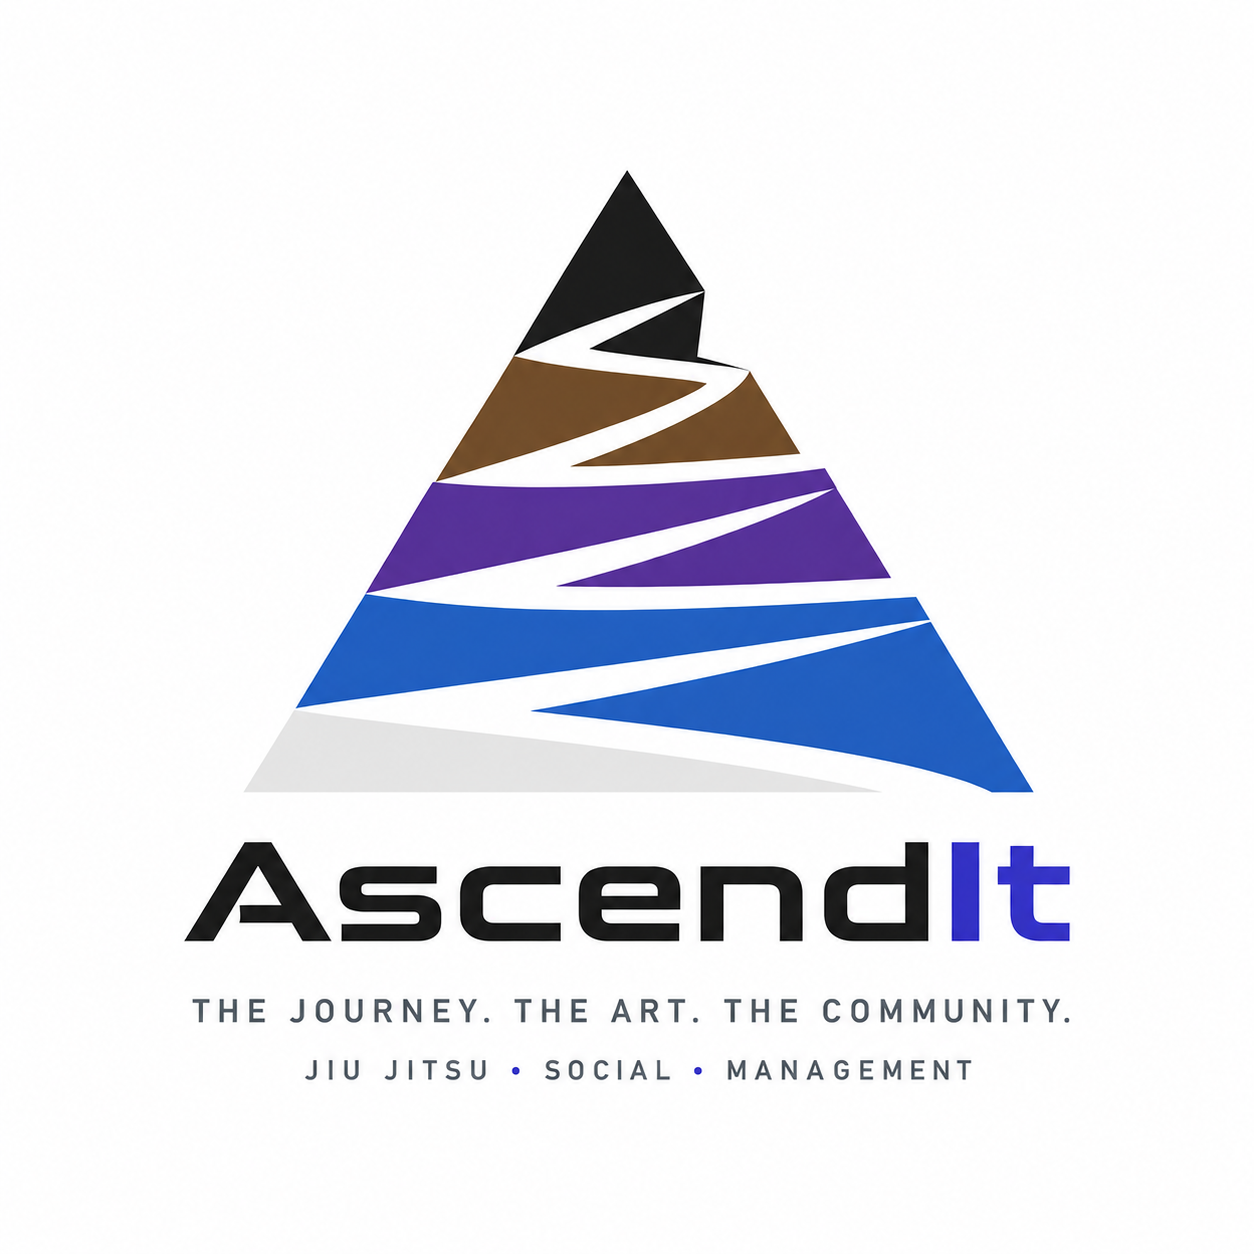
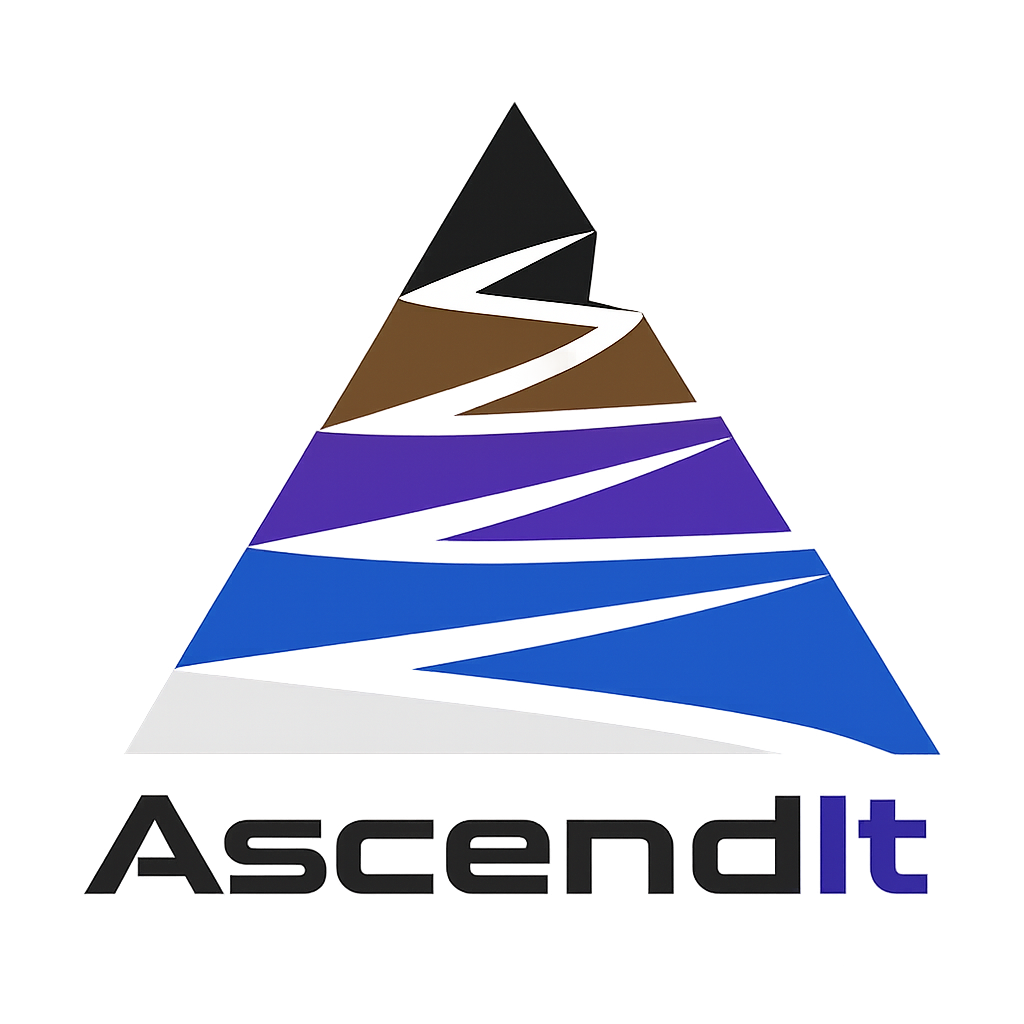
prior to launch day

Changed region(s): [[0.0625, 0.0938, 0.9375, 0.875]]

diff --git a/app/onboarding/OnboardingWizard.tsx b/app/onboarding/OnboardingWizard.tsx
@@ -66,7 +66,6 @@ export function OnboardingWizard({ userId, userName, userBelt, userStripes, redi
 
   // Step 1
   const [name, setName] = useState(userName || '')
-  const [avatarUrl, setAvatarUrl] = useState('')
   const [belt, setBelt] = useState<Belt>(userBelt || 'white')
   const [stripes, setStripes] = useState(userStripes || 0)
 
@@ -109,7 +108,7 @@ export function OnboardingWizard({ userId, userName, userBelt, userStripes, redi
   }
 
   async function saveStep1() {
-    await patch({ name: name || undefined, avatarUrl: avatarUrl || undefined, belt, stripes })
+    await patch({ name: name || undefined, belt, stripes })
   }
 
   async function saveStep2() {
@@ -188,17 +187,6 @@ export function OnboardingWizard({ userId, userName, userBelt, userStripes, redi
                 onChange={e => setName(e.target.value)}
                 className={inputCls}
                 placeholder="Your name"
-              />
-            </div>
-
-            <div className="flex flex-col gap-1">
-              <label className={labelCls}>Avatar URL <span className="normal-case font-normal text-ash">(optional)</span></label>
-              <input
-                type="url"
-                value={avatarUrl}
-                onChange={e => setAvatarUrl(e.target.value)}
-                className={inputCls}
-                placeholder="https://..."
               />
             </div>
 
@@ -310,7 +298,7 @@ export function OnboardingWizard({ userId, userName, userBelt, userStripes, redi
         {step === 2 && showGymForumPrompt && selectedGym && (
           <div className="flex flex-col gap-5">
             <div>
-              <p className="text-xs font-bold uppercase tracking-widest text-steel mb-1">Step 2 of {TOTAL_STEPS}</p>
+              <p className="text-xs font-bold uppercase tracking-widest text-steel mb-1">Step 2 · Gym Forum</p>
               <h2 className="font-display text-xl text-ink mb-1">Connect with your training partners</h2>
             </div>
             {justCreatedGym && (
@@ -371,7 +359,7 @@ export function OnboardingWizard({ userId, userName, userBelt, userStripes, redi
             <div className="flex justify-between">
               <button onClick={() => setStep(s => s - 1)} className={secondaryBtn}>← Back</button>
               <div className="flex gap-3">
-                <button onClick={handleSkip} className={secondaryBtn}>Skip</button>
+                <button onClick={handleSkip} className={secondaryBtn}>Skip for now</button>
                 <button
                   onClick={() => handleNext(saveStep3)}
                   disabled={saving}
@@ -415,7 +403,7 @@ export function OnboardingWizard({ userId, userName, userBelt, userStripes, redi
             <div className="flex justify-between">
               <button onClick={() => setStep(s => s - 1)} className={secondaryBtn}>← Back</button>
               <div className="flex gap-3">
-                <button onClick={handleSkip} className={secondaryBtn}>Skip</button>
+                <button onClick={handleSkip} className={secondaryBtn}>Skip for now</button>
                 <button
                   onClick={() => handleNext(saveStep4)}
                   disabled={saving}

diff --git a/app/dashboard/page.tsx b/app/dashboard/page.tsx
@@ -4,6 +4,7 @@ import { redirect } from 'next/navigation'
 import Link from 'next/link'
 import prisma from '@/lib/database'
 import { getMondayOfWeek } from '@/lib/generateSessions'
+import { getEffectiveFeatures } from '@/lib/features'
 import { DeleteAccountButton } from '@/app/components/DeleteAccountButton'
 import { CheckinButton } from '@/app/components/CheckinButton'
 
@@ -12,6 +13,8 @@ const DAY_ABBR = ['Sun', 'Mon', 'Tue', 'Wed', 'Thu', 'Fri', 'Sat']
 export default async function DashboardPage() {
   const session = await getServerSession(authOptions)
   if (!session?.user?.id) redirect('/login')
+
+  const features = await getEffectiveFeatures(session)
 
   const monday = getMondayOfWeek(new Date())
   const sunday = new Date(monday)
@@ -194,6 +197,7 @@ export default async function DashboardPage() {
       </div>
 
       {/* Recent journal entries */}
+      {features.journal && (
       <div className="mb-8">
         <div className="flex items-center justify-between mb-3">
           <p className="text-xs font-bold uppercase tracking-widest text-steel">Training Journal</p>
@@ -227,6 +231,7 @@ export default async function DashboardPage() {
           </div>
         )}
       </div>
+      )}
 
       {/* Recent forum activity */}
       {recentPosts.length > 0 && (
@@ -266,10 +271,12 @@ export default async function DashboardPage() {
           <p className="text-xs font-bold uppercase tracking-widest text-steel">Forums</p>
           <p className="text-slate text-sm">Class discussions and announcements</p>
         </Link>
-        <Link href="/lessons" className="border border-smoke bg-paper hover:border-steel transition-colors p-5 flex flex-col gap-2">
-          <p className="text-xs font-bold uppercase tracking-widest text-steel">Private Lessons</p>
-          <p className="text-slate text-sm">Request or view your lesson history</p>
-        </Link>
+        {features.privateLessons && (
+          <Link href="/lessons" className="border border-smoke bg-paper hover:border-steel transition-colors p-5 flex flex-col gap-2">
+            <p className="text-xs font-bold uppercase tracking-widest text-steel">Private Lessons</p>
+            <p className="text-slate text-sm">Request or view your lesson history</p>
+          </Link>
+        )}
         {(session.user.roles?.includes('instructor') || session.user.roles?.includes('admin')) && (
           <Link href="/instructor" className="border border-smoke bg-paper hover:border-steel transition-colors p-5 flex flex-col gap-2">
             <p className="text-xs font-bold uppercase tracking-widest text-steel">Instructor</p>

diff --git a/app/tour/admin/page.tsx b/app/tour/admin/page.tsx
@@ -69,9 +69,9 @@ export default function AdminTourPage() {
           <p className="text-ash text-lg max-w-xl leading-relaxed">
             AscendIt gives you full visibility into your students, schedule, and community — without the spreadsheets.
           </p>
-          <a href="mailto:[email redacted]" className="px-6 py-3 bg-brand-red text-paper font-bold text-sm tracking-wide hover:bg-brand-red-dark transition-colors">
-            Request a Demo
-          </a>
+          <Link href="/gyms/register" className="px-6 py-3 bg-brand-red text-paper font-bold text-sm tracking-wide hover:bg-brand-red-dark transition-colors">
+            Register Your Gym
+          </Link>
         </div>
       </div>
 
@@ -191,14 +191,13 @@ export default function AdminTourPage() {
             AscendIt gives your instructors the tools and your students the experience they expect from a world-class academy.
           </p>
           <div className="flex gap-3 flex-wrap justify-center">
-            <a href="mailto:[email redacted]" className="px-6 py-3 bg-brand-red text-paper font-bold text-sm tracking-wide hover:bg-brand-red-dark transition-colors">
-              Request a Demo
-            </a>
+            <Link href="/gyms/register" className="px-6 py-3 bg-brand-red text-paper font-bold text-sm tracking-wide hover:bg-brand-red-dark transition-colors">
+              Register Your Gym
+            </Link>
             <Link href="/tour" className="px-6 py-3 border border-steel text-ash text-sm font-medium hover:border-paper hover:text-paper transition-colors">
               See the Student Tour →
             </Link>
           </div>
-          <p className="text-paper/40 text-xs mt-2">Demo form will be wired to email API in a future update.</p>
         </div>
       </section>
     </div>

diff --git a/app/admin/users/[id]/page.tsx b/app/admin/users/[id]/page.tsx
@@ -72,6 +72,11 @@ export default async function AdminUserDetailPage({ params }: { params: Promise<
       </div>
 
       <div className="flex flex-col gap-6">
+        <div className="flex items-center gap-3">
+          <p className="text-xs font-bold uppercase tracking-widest text-ash whitespace-nowrap">Admin Controls</p>
+          <div className="h-px flex-1 bg-smoke" />
+        </div>
+
         {/* Role Management */}
         <RoleManager userId={user.id} currentRoles={user.roles as string[]} />
 
@@ -89,6 +94,11 @@ export default async function AdminUserDetailPage({ params }: { params: Promise<
           initialVerified={user.beltVerified}
           verifierName={verifier?.name ?? null}
         />
+
+        <div className="flex items-center gap-3 mt-2">
+          <p className="text-xs font-bold uppercase tracking-widest text-ash whitespace-nowrap">Profile &amp; History</p>
+          <div className="h-px flex-1 bg-smoke" />
+        </div>
 
         {/* Contact */}
         <div className="border border-smoke bg-paper p-6">

diff --git a/app/page.tsx b/app/page.tsx
@@ -21,12 +21,12 @@ export default function HomePage() {
           />
 
           <p className="font-display text-xl text-ink max-w-md text-center leading-snug">
-            Connecting people with the shared pursuit of one day being good at jiu jitsu.
+            Connecting people with the shared pursuit of one day being good at Jiu-Jitsu.
           </p>
 
           <p className="text-slate text-sm max-w-md leading-relaxed text-center">
-            Schedule classes, declare your attendance, connect with training partners,
-            and track your progress from white belt to black.
+            Message with your team, journal your goals &amp; progress, share photos,
+            find open mats and more…
           </p>
 
           <div className="flex gap-3 flex-wrap justify-center">

diff --git a/TODO.md b/TODO.md
@@ -284,7 +284,7 @@ Schema pushed: `ClassGroup` enum (`grappling | striking | kids | competition | s
 
 These items are code-complete but require manual steps to fully activate:
 
-- **Vercel env vars (Phase 19):** Add `RESEND_API_KEY` and `EMAIL_FROM=[email redacted]` to Vercel dashboard → Project → Settings → Environment Variables (Production + Preview). Without this, password reset emails won't send in production.
+- **Vercel env vars (Phase 19):** ✅ `RESEND_API_KEY` added to Vercel **Production + Preview** (2026-06-01, new rotated key; also updated in `.env.local`). ⚠️ Still need to add **`EMAIL_FROM=[email redacted]`** to Vercel (Production + Preview) — not yet pushed. Also: old Resend key `re_UaUtDYNk…` is still active on Resend's side — revoke it in the Resend dashboard if this was a security rotation.
 - **Group forum seeding (Phase 17):** One-time setup — while logged in as admin, POST to `/api/admin/init-group-forums` (e.g. from browser devtools or a REST client) to create the 5 group forums in the database.
 - **Belt forum seeding (Phase 27):** One-time setup — while logged in as site_admin, POST to `/api/site-admin/belt-forums/init` to create the 5 belt forums. Safe to run multiple times (idempotent).
 - **Production email domain:** Sandbox sender only delivers to your verified Resend email. To send to any user, verify a domain at resend.com and update `EMAIL_FROM` to `[email redacted]`.
@@ -503,7 +503,7 @@ Two separate tours: one for prospective students (`/tour`), one for prospective 
 ### [ ] 30.12 — Gym revenue dashboard (`/admin/payments`) + platform revenue dashboard (`/site-admin/payments`, folds in 29.6) (§15)
 ### [ ] 30.13 — Gym onboarding copy: explain paid-tier unlocks (scheduling, store, tournaments, paid private lessons, money collection) vs free-tier retains (profile, gym forum + moderation, communication under banner); state student data is always preserved + fees negotiable / gym bears Stripe fees (guide §21.2). Files: `/onboarding/admin`, `/gyms/register`.
 
-**Decisions confirmed (guide §21):** D1 participating-only collects · D2 payee bears Stripe fee + platform fee on top · D3 defaults 5%/0%/0% · D4 rates negotiable per-gym AND per-vendor from site-admin dashboard (override UI in core scope) · D5 USD/no-tax · D6 keep pay-at-pickup fallback · D7 hybrid checkout (single-payee destination charge, multi-payee separate charges + automated transfers) · D8 platform sub = gym's one-student monthly fee, negotiable, 14-day trial · D9 site_admin comped flag · D10 soft lapse per §21.1 capability matrix · D11 gym-defined membership plans. **Pending:** D12 grace · D13 vendor scope · D14 photo prints · D15 refunds · D16 payouts · D17 payment methods.
+**Decisions confirmed (guide §21):** D1 participating-only collects · D2 payee bears Stripe fee + platform fee on top · D3 defaults 5%/0%/0% · D4 rates negotiable per-gym AND per-vendor from site-admin dashboard (override UI in core scope) · D5 USD/no-tax · D6 keep pay-at-pickup fallback · D7 hybrid checkout (single-payee destination charge, multi-payee separate charges + automated transfers) · D8 platform sub = gym's one-student monthly fee, negotiable, 14-day trial · D9 site_admin comped flag · D10 soft lapse per §21.1 capability matrix · D11 gym-defined membership plans · D12 7-day membership grace · D13 vendor selling deferred to 30D · D14 photo-print sales deferred (30D) · D15 payee refunds own sales ≤30d + site_admin always, fee pro-rata · D16 Stripe default auto payouts · D17 cards + wallets. **All 17 set.** Only gate to start coding: manual Stripe test-credential setup (30.0a–g) + your go-ahead.
 
 **⚠️ Product note (guide §21.1):** AscendIt is a social network first; gym membership is optional. Free/lapsed gyms lose money-collection + **scheduling** + store + tournaments + paid lessons, but keep profile, gym-forum moderation, and communication under their banner. **Students always keep their own data.** Gating scheduling behind the paid tier is a product change to land with 30B (currently scheduling is universal).
 
@@ -586,29 +586,23 @@ When returning from "Add my gym" (`initialGymId`/`initialGymName` present), the 
 ### [x] 36.2 — Brand name resolved (not a rename) — DONE
 User clarified: **AscendIt** is the app name (already consistent in the UI — Header, layout title, onboarding, gym-register all say AscendIt). **Ascend** is intentionally repurposed as a demo gym (see Phase 37). No UI rename needed.
 
-### [ ] 36.3 — Remove Avatar URL from onboarding step 1 (MED)
-Asking a brand-new user to paste a hosted image URL is friction with no uploader. Keep avatar editing only in `/profile/edit`. File: `OnboardingWizard.tsx`.
+### [x] 36.3 — Remove Avatar URL from onboarding step 1 — DONE (removed field + state; avatar editing stays in `/profile/edit`)
 
-### [ ] 36.4 — Standardize skip / secondary-button copy (MED)
-Onboarding uses "I train independently" / "Skip" / "Skip for now" / "Skip Reflection" across steps 2–5. Standardize the skip affordance; audit site-wide. File: `OnboardingWizard.tsx`.
+### [x] 36.4 — Standardize skip / secondary-button copy — DONE (steps 3/4/5 now all "Skip for now"; step 2's "I train independently" kept — distinct path choice, not a skip)
 
-### [ ] 36.5 — Resolve dead-end placeholders shown to real users (MED)
-Admin-tour final CTA is a "Phase 19 email" placeholder; `/vendor` is a stub. Either wire them up or clearly label "coming soon" / hide the nav entry. Files: `app/tour/admin/page.tsx`, `app/vendor/*`, `Header.tsx`.
+### [x] 36.5 — Resolve dead-end placeholders — DONE (admin-tour CTAs now link to `/gyms/register` instead of a guessed `mailto`; "wired later" disclaimer removed. `/vendor` stub already labeled "Coming soon" — left as-is)
 
-### [ ] 36.6 — Audit first-run empty states (MED)
-Confirm dashboard panels, schedule (nothing committed), forum, journal, gallery render inviting empty states for a day-1 user, not blank boxes. Files: respective pages.
+### [x] 36.6 — Audit first-run empty states — DONE
+Audited dashboard, journal, gallery, forum, schedule: empty states already inviting (CTAs/links present; schedule per-day "—" is an appropriate column placeholder). Also fixed a Phase 37 continuity gap found during the audit: dashboard now hides the **Training Journal** section and **Private Lessons** card when those features are off for the gym (was showing dead links that bounced to /dashboard). File: `app/dashboard/page.tsx`.
 
-### [ ] 36.7 — Lighten the onboarding reflection step (LOW)
-Three open-ended prompts at first run is heavy. Collapse to one optional prompt; full reflection stays at `/reflection/edit`. File: `OnboardingWizard.tsx`.
+### [ ] 36.7 — Lighten the onboarding reflection step (LOW) — ⏸️ NEEDS YOUR CALL
+Three open-ended prompts at first run is heavy. Collapse to one optional prompt; full reflection stays at `/reflection/edit`. File: `OnboardingWizard.tsx`. **Parked (not auto-done):** this removes data we currently collect at signup (why-started / challenges / goals feed the journal/profile). Confirm you want to trim it, and which single prompt to keep, before I cut the other two.
 
-### [ ] 36.8 — Group/section the admin user-detail screen (LOW)
-Roles + belt verify + class access + email actions are stacked as one wall. Add sections/accordion. File: `app/admin/users/[id]/page.tsx`.
+### [x] 36.8 — Group/section the admin user-detail screen — DONE (split the flat stack into two labeled groups with divider headers: "Admin Controls" = role/class-access/email/belt; "Profile & History" = contact/rank/attendance/notes)
 
-### [ ] 36.9 — Fix "Step 2 of 6" double-label on the gym-forum sub-step (LOW)
-The forum sub-step reprints "Step 2" so the user sees it twice. Use a sub-label or rely on the dots. File: `OnboardingWizard.tsx`.
+### [x] 36.9 — Fix "Step 2 of 6" double-label on the gym-forum sub-step — DONE (sub-step now reads "Step 2 · Gym Forum")
 
-### [ ] 36.10 — Verify privileged-area nav consistency (LOW)
-Admin/instructor use card hubs; site-admin uses a sidebar; student uses header icons. Confirm this is deliberate and document the intended pattern. Files: `admin/`, `instructor/`, `site-admin/` layouts.
+### [x] 36.10 — Verify privileged-area nav consistency — DONE (verified deliberate; documented in `guides/phase35-ux-audit.md` CONT-7: global header for all; card hubs for shallow admin/instructor areas; sidebar for the deeper site-admin console — keep them distinct)
 
 **Out of scope (tracked separately as feature-audit gaps, not UX bloat):** hidden-group forum notification muting, custom media-access edit UI, `allowMediaTagging` pre-submit check, per-type in-app notification preference threading.
 
@@ -645,6 +639,16 @@ Schema pushed: new `GymFeatures` model (`gymId @unique`, 6 booleans, cascade). K
 ---
 
 ## SESSION LOG
+
+**2026-06-01 — Phase 35/36 UX, Phase 37 gym toggles, Phase 30 payments plan, Resend key, copy**
+- **36.1** — fixed onboarding gym return-from-register (no step-1 restart / re-prompt; "you're now a member" banner). Finding: `POST /api/gyms` already auto-joins creator.
+- **Phase 35/36** — wrote `guides/phase35-ux-audit.md`, triaged into Phase 36. Executed 36.3 (drop avatar URL), 36.4 (standardize "Skip for now"), 36.5 (admin-tour CTAs → `/gyms/register`), 36.6 (empty states OK + dashboard now hides Journal/Lessons when feature off), 36.8 (admin user-detail grouped), 36.9 (sub-step label), 36.10 (nav pattern documented). **36.7 parked** (needs your call — trims signup reflection data).
+- **Phase 37** — per-gym feature toggles: new `GymFeatures` model (+ client-safe `lib/gymFeatureFlags.ts`), `lib/features.ts` `getEffectiveFeatures` (platform AND gym, admin bypass), nav + page hiding, API enforcement on 6 routes, `/admin/settings` "Gym Features" UI, `prisma db push` done, `scripts/setup-ascend-gym.ts` created the **Ascend** demo gym + moved 3 instructors. Confirmed Phase 33 toggles were API-only; added UI hiding. Verified via `scripts/verify-gym-features.ts` (10/10). **Found: platform flags `storeEnabled`, `galleryUploadEnabled`, `allowEventSubmission`, `allowBeltForumPosting` are currently OFF in DB → now also hidden in UI for non-admins.**
+- **Phase 30 (payments)** — wrote `guides/phase30-payment-system.md` (Stripe Connect/Billing framework + spec-vs-schema reconciliation); rewrote Phase 30 into 13 tasks (30A–30E). **All 17 design decisions captured (guide §21)**, incl. social-network-first tier model (see memory). Build still gated on Stripe test-credential setup (30.0a–g) + go-ahead. Saved `[[project_tier_model]]` memory.
+- **Resend key** — rotated `RESEND_API_KEY` in `.env.local` + pushed to Vercel Production + Preview (upgraded Vercel CLI 53→54.6.1 to get past an agent-mode bug). `EMAIL_FROM` still not pushed; old key not revoked.
+- **heroBanner** — diagnosed "old banner persists" as a stale `w=384` next/image variant cached in the dev server (not the file); fix = kill server + `rm -rf .next` + restart + hard refresh. Saved gotcha to memory.
+- **Landing copy** — hero subtitle changed to "Message with your team, journal your goals & progress, share photos, find open mats and more…" (individual-first; was gym-gated verbs). Note: headline still has "jui jitsu" typo (unfixed, pending your OK).
+- **Nothing committed/pushed** (per standing rule). Dev server left running on :3002.
 
 **2026-05-30/31 — Platform settings completion, 32.8, auth UX, bug fixes, housekeeping**
 - Finished the interrupted **Phase 33** platform feature-toggles work: wired enforcement for the 3 unenforced flags (`allowBeltForumPosting`, `galleryUploadEnabled`, `storeEnabled`); verified `PlatformSettings` table exists in DB and client is generated; typecheck clean. Committed as `0385fe6` (not pushed).